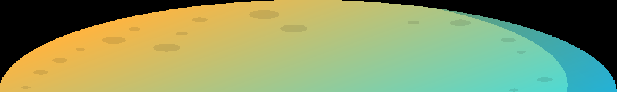
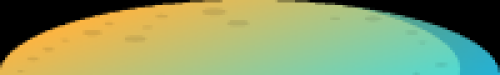
기지 추가
기지 객체 클래스 생성
게임 씬에 기지 객체 추가
기지 이미지 수정

diff --git a/code/game_scene.py b/code/game_scene.py
@@ -6,8 +6,9 @@ import end_scene
 from fighter import Fighter
 from enemy import EnemyGen
 from turret import Turret
+from commandcenter import CmdCenter
 
-world = gfw.World(['bg', 'fighter', 'bullet', 'enemy', 'ui', 'controller', 'turret'])
+world = gfw.World(['bg', 'fighter', 'bullet', 'enemy', 'ui', 'controller', 'turret', 'center'])
 
 canvas_width = 500
 canvas_height = 800
@@ -40,6 +41,9 @@ def enter():
 
     global score
     score = 0
+
+    center = CmdCenter(canvas_width / 2, 10)
+    world.append(center, world.layer.center)
 
 def exit():
     world.clear()

diff --git a/code/commandcenter.py b/code/commandcenter.py
@@ -1,0 +1,19 @@
+from pico2d import *
+import gfw
+import game_scene
+
+class CmdCenter(gfw.Sprite):
+    def __init__(self, x, y, hp=1):
+        super().__init__('resources/center.png', x, y)
+        self.x, self.y = x,y
+        self.width, self.height = self.image.w, self.image.h
+        self.hp = hp
+
+
+    def update(self):
+        pass
+
+    def draw(self):
+        self.image.draw(self.x, self.y)
+
+        pass
